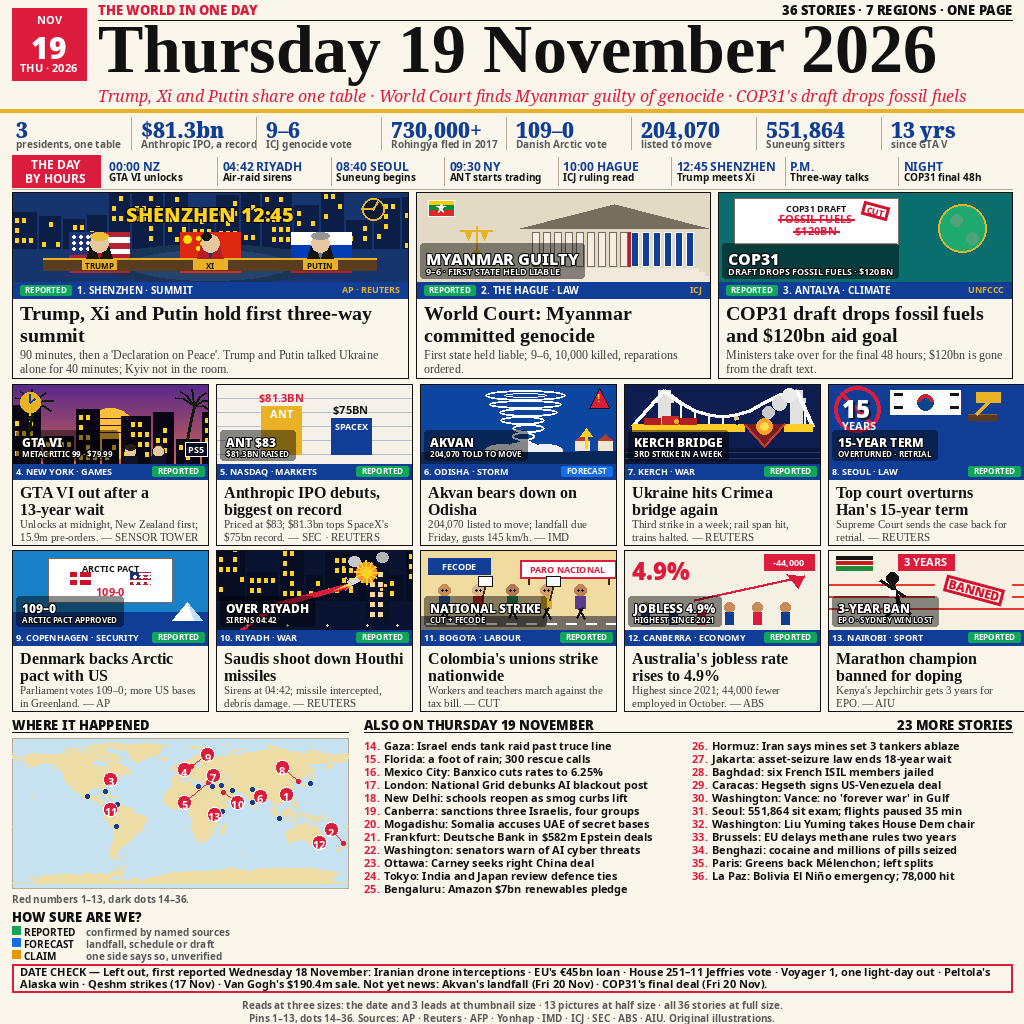
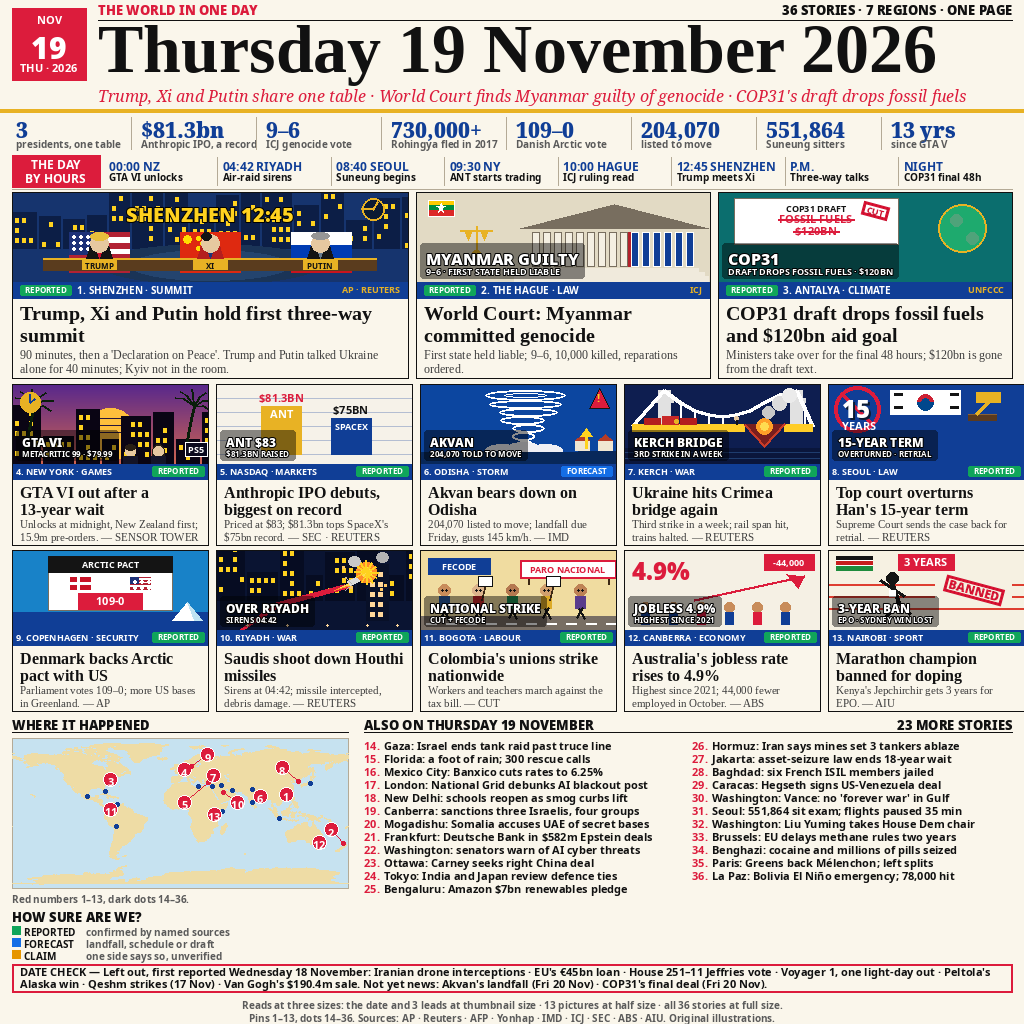
v34: Greenland ARCTIC PACT black title box, spaced flags, 109-0 red box (no scrim)

Changed region(s): [[0.0, 0.5312, 0.1875, 0.625]]

diff --git a/draw.py b/draw.py
@@ -208,7 +208,7 @@ FRONT = [
     (9, "COPENHAGEN", "SECURITY", "AP", "REPORTED",
      "Denmark backs Arctic pact with US",
      "Parliament votes 109\u20130; more US bases in Greenland.",
-     "109\u20130", "ARCTIC PACT APPROVED", "greenland"),
+     "", "", "greenland"),
     (10, "RIYADH", "WAR", "REUTERS", "REPORTED",
      "Saudis shoot down Houthi missiles",
      "Sirens at 04:42; missile intercepted, debris damage.",
@@ -309,7 +309,12 @@ def wrap(d, text, fnt, width, max_lines=None):
 
 
 def art_text(img, d, x, y, w, h, big, small, f_big, f_small):
-    """Big short text inside the art: white bold on a dark scrim, bottom-left."""
+    """Big short text inside the art: white bold on a dark scrim, bottom-left.
+    (v34: if both strings are empty, draw nothing — the Greenland pact
+    document already carries its own title, flags and score, so its scrim
+    would only cover the red 109-0 box.)"""
+    if not big and not small:
+        return
     bw = int(d.textlength(big, font=f_big))
     sw = int(d.textlength(small, font=f_small)) if small else 0
     if max(bw, sw) + 22 > w:
@@ -704,16 +709,22 @@ def art_image(key, w, h):
         # navy sea band, waterline at y62
         d.rectangle([0, 62, w, h], fill=NAVY)
         # the pact document, centred, with both flags and the vote on it
-        d.rectangle([36, 8, 160, 52], fill="white", outline=(120, 110, 95))
-        d.text((98, 12), "ARCTIC PACT", font=F_SRC, fill=(20, 20, 20),
-               anchor="ma")
-        # Danish flag (left) and US flag (right) on the document
-        d.rectangle([58, 22, 78, 34], fill=(200, 20, 40))
-        d.rectangle([58, 27, 78, 29], fill="white")
-        d.rectangle([65, 22, 67, 34], fill="white")
-        _flag(d, 118, 22, 20, 12, "us")
-        # the vote, in red, centred at the foot of the document
-        d.text((98, 42), "109-0", font=F_ART2_S, fill=RED, anchor="mm")
+        # (v34: the user asked for a BLACK box behind the ARCTIC PACT title,
+        # space between the title and the flags, and a RED box behind the
+        # 109-0 score — like the "3 YEARS" box in the Marathon art)
+        d.rectangle([36, 6, 160, 60], fill="white", outline=(120, 110, 95))
+        # black title box across the top of the document
+        d.rectangle([36, 6, 160, 22], fill=(20, 20, 20))
+        d.text((98, 14), "ARCTIC PACT", font=F_SRC, fill="white",
+               anchor="mm")
+        # Danish flag (left) and US flag (right), 5px below the title box
+        d.rectangle([58, 27, 78, 39], fill=(200, 20, 40))
+        d.rectangle([58, 32, 78, 34], fill="white")
+        d.rectangle([65, 27, 67, 39], fill="white")
+        _flag(d, 118, 27, 20, 12, "us")
+        # the vote, white text in a RED box at the foot of the document
+        d.rectangle([66, 43, 130, 59], fill=RED)
+        d.text((98, 51), "109-0", font=F_ART2_S, fill="white", anchor="mm")
         # (no APPROVED stamp here: the word is 8 letters, ~59px rotated,
         # and every placement either ran off the edge or sat on the title.
         # The document + flags + 109-0 already say "approved".)
